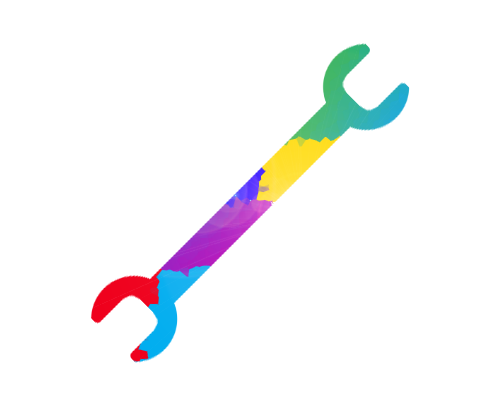
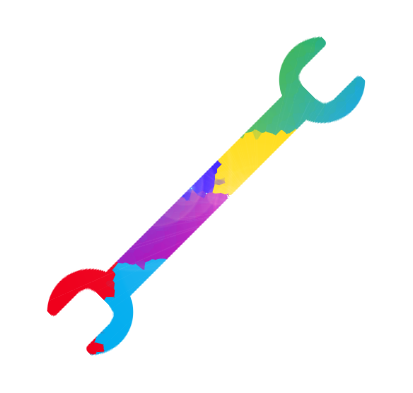
style updates, image effects, new images

Changed region(s): [[0.1162, 0.0916, 0.9007, 0.916]]

diff --git a/css/style.css b/css/style.css
@@ -42,11 +42,11 @@ body .jh-section p {
   line-height: 25px;
 }
 body .jh-section.highlight-section {
-  height: 700px;
+  height: 800px;
   min-height: 600px;
   background: #000;
   background-image: radial-gradient(1500px at 0 0, #002244 0%, #002884 50%, #7722aa 100%);
-  text-align: right;
+  text-align: left;
 }
 body .jh-section.highlight-section .container {
   height: 100%;
@@ -59,21 +59,46 @@ body .jh-section.highlight-section .container .row div:first-child {
   top: 50%;
   height: 200px;
 }
-body .jh-section.highlight-section .container .row div:first-child > div {
+body .jh-section.highlight-section .container .row div:first-child > div.outer-exp-display {
   position: relative;
+  float: right;
   top: -55%;
+  max-width: 550px;
 }
-body .jh-section.highlight-section .container .row div:first-child > div h1 {
+body .jh-section.highlight-section .container .row div:first-child > div.outer-exp-display h1 {
+  margin: 0 0 20px;
   color: #FFF;
+  font-size: 40px;
   text-transform: none;
 }
-body .jh-section.highlight-section .container .row div:first-child > div h3 {
-  margin-top: 15px;
+body .jh-section.highlight-section .container .row div:first-child > div.outer-exp-display i {
+  margin-right: 20px;
+  color: #0c0;
+  font-size: 45px;
+  line-height: 45px;
+  vertical-align: top;
+}
+body .jh-section.highlight-section .container .row div:first-child > div.outer-exp-display h3 {
+  display: inline-block;
+  margin: 0 0 15px;
+  vertical-align: top;
   color: #FFF;
   color: rgba(255, 255, 255, 0.8);
   font-size: 20px;
+  line-height: 45px;
 }
-body .jh-section.highlight-section .container .row div img {
-  float: left;
-  margin-top: 75px;
+body .jh-section.highlight-section .container .row div#highlight-images {
+  margin-top: 35px;
+}
+body .jh-section.highlight-section .container .row div#highlight-images img {
+  position: absolute;
+  top: 0;
+  left: 0;
+  opacity: 0;
+  filter: alpha(opacity=0);
+}
+body .jh-section.highlight-section .container .row div#highlight-images img.tool-image {
+  padding: 25px;
+  background-color: rgba(0, 0, 0, 0.5);
+  border-radius: 55px;
 }

diff --git a/less/style.less b/less/style.less
@@ -42,11 +42,11 @@ body {
 			line-height:25px;
 		}
 		&.highlight-section {
-			height:700px;
+			height:800px;
 			min-height:600px;
 			background:#000;
 			background-image:radial-gradient(1500px at 0 0, #024 0%, #002884 50%, #7722aa 100%);
-			text-align:right;
+			text-align:left;
 			.container {
 				height:100%;
 				.row {
@@ -55,25 +55,48 @@ body {
 						position:relative;
 						top:50%;
 						height:200px;
-						> div {
+						> div.outer-exp-display {
 							position:relative;
+							float:right;
 							top:-55%;
+							max-width:550px;
 							h1 {
+								margin:0 0 20px;
 								color:#FFF;
+								font-size:40px;
 								text-transform:none;
 							}
+							i {
+								margin-right:20px;
+								color:#0c0;
+								font-size:45px;
+								line-height:45px;
+								vertical-align:top;
+							}
 							h3 {
-								margin-top:15px;
+								display:inline-block;
+								margin:0 0 15px;
+								vertical-align:top;
 								color:#FFF;
 								color:rgba(255,255,255,.8);
 								font-size:20px;
+								line-height:45px;
 							}
 						}
 					}
-					div {
+					div#highlight-images {
+						margin-top:35px;
 						img {
-							float:left;
-							margin-top:75px;
+							position:absolute;
+							top:0;
+							left:0;
+							opacity:0;
+							filter:alpha(opacity=0);
+							&.tool-image {
+								padding:25px;
+								background-color:rgba(0,0,0,.5);
+								border-radius:55px;
+							}
 						}
 					}
 				}

diff --git a/js/scripts.js b/js/scripts.js
@@ -1,0 +1,39 @@
+/* Copyright John Harding */
+(function() {
+
+	window.onload = function() {
+		var obj = document.getElementById("highlight-images");
+		var children = obj.children;
+		var elemPositions = [
+			[50,83],
+			[125,125],
+			[140,140],
+			[155,155],
+			[170,170],
+			[185,185]
+		];
+		for(var i = children.length-1; i >= 0; i--)
+		{
+			children[i].style.top = elemPositions[i][0]+"px";
+			children[i].style.left = elemPositions[i][1]+"px";
+			children[i].style.zIndex = Math.abs(i-6);
+
+			var t = setTimeout(closure(children[i],0),
+			(Math.abs(i-6) * 600));
+		}
+	};
+
+	var easeShow = function(obj,start) {
+		start += .05;
+		obj.style.opacity = start;
+		obj.style.filter = "Alpha(opacity=" + ( start * 100 ) + ")";
+		if(start < 1)
+		{
+			var t2 = setTimeout(closure(obj,start),12);
+		}
+	};
+
+	var closure = function(child,start) {
+		return function(){easeShow(child,start);}
+	};
+})();

diff --git a/index.php b/index.php
@@ -11,6 +11,9 @@
 <!-- Bootstrap -->
 <link rel="stylesheet" href="http://maxcdn.bootstrapcdn.com/bootstrap/3.3.4/css/bootstrap.min.css">
 
+<!-- Font Awesome -->
+<link rel="stylesheet" href="//maxcdn.bootstrapcdn.com/font-awesome/4.3.0/css/font-awesome.min.css">
+
  <!-- HTML5 Shim and Respond.js -->
   <!--[if lt IE 9]>
       <script src="https://oss.maxcdn.com/libs/html5shiv/3.7.0/html5shiv.js"></script>
@@ -25,15 +28,20 @@
 	<div class="container">
 		<div class="row">
 			<div class="col-lg-6">
-				<div>
+				<div class="outer-exp-display">
 					<h1>Front End Engineer/Developer</h1>
-					<h3>7 Years Practical Experience</h3>
-					<h3>1.75 Years Personal Work Experience</h3>
-					<h3>7 Months Work Experience</h3>
+					<h3><i class="fa fa-check-circle-o"></i> 7 Years Practical Experience</h3>
+					<h3><i class="fa fa-check-circle-o"></i> 1.75 Years Personal Work Experience</h3>
+					<h3><i class="fa fa-check-circle-o"></i> 7 Months Work Experience</h3>
 				</div>
 			</div>
-			<div class="col-lg-6">
-				<img src="images/tool.png" alt="Key Words">
+			<div class="col-lg-6" id="highlight-images">
+				<img src="images/tool.png" class="tool-image" alt="Key Words">
+				<img src="images/highlight-screenshots/repfive.png" alt="Repfive Preview">
+				<img src="images/highlight-screenshots/project3.png" alt="Project3 Preview">
+				<img src="images/highlight-screenshots/portfolio.png" alt="Old Portfolio Preview">
+				<img src="images/highlight-screenshots/ck_comment.png" alt="Ck Comments Preview">
+				<img src="images/highlight-screenshots/portfolio_micro.png" alt="Umiami Micro'Canes Preview">
 			</div>
 		</div>
 	</div>
